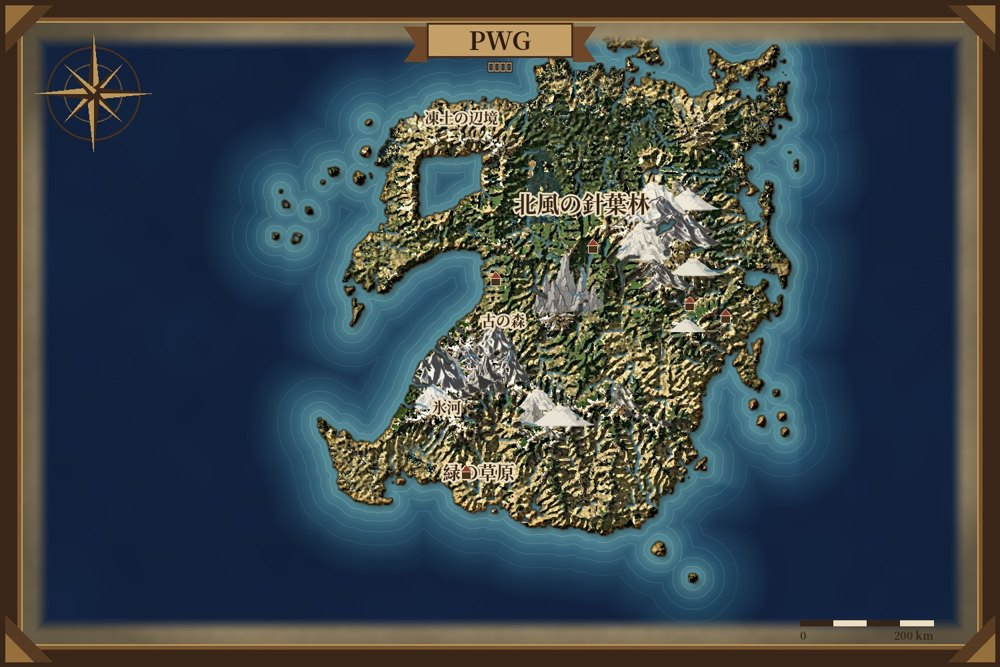
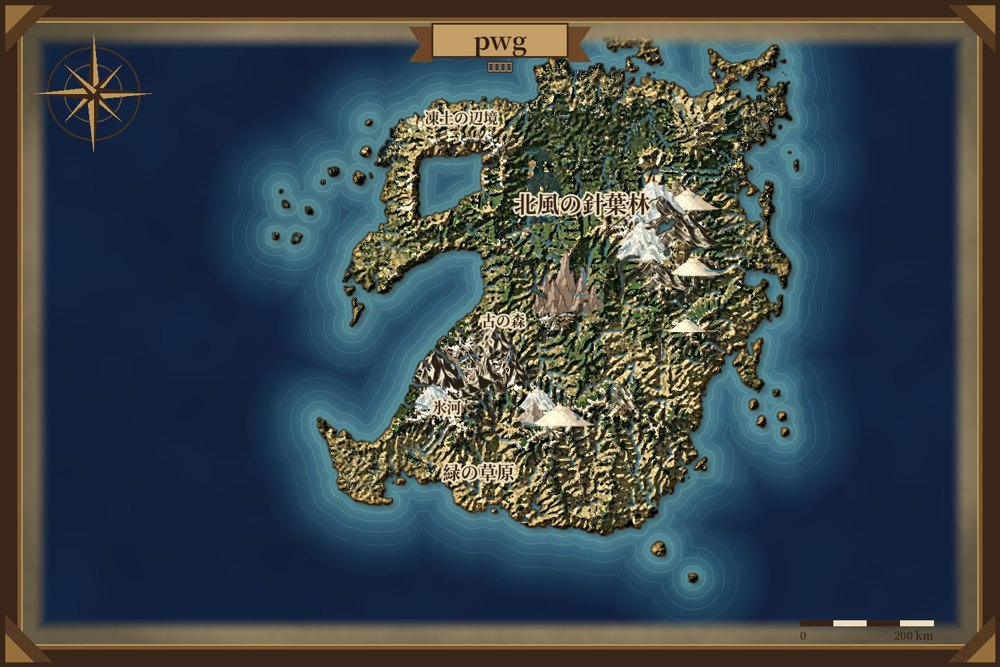
段階16修正: 部品の絵をそのまま貼る・家の記号を外す
Claude-Session: https://claude.ai/code/session_01NNF75WtqSrNc5QxPaYtfZJ

diff --git a/docs/apps/fantasy-war/mapstyle27.html b/docs/apps/fantasy-war/mapstyle27.html
@@ -1,18 +1,18 @@
 <!doctype html><html lang="ja"><head><meta charset="utf-8"><meta name="viewport" content="width=device-width,initial-scale=1"><title>段階16 部品から山を作る</title>
 <style>body{font-family:sans-serif;background:#f4ecd8;color:#2b2418;margin:0;padding:16px;line-height:1.7}h1{font-size:1.3em}img{max-width:100%;border-radius:6px}table{border-collapse:collapse;font-size:.85em}td,th{border:1px solid #b9a98a;padding:4px 8px}</style></head><body>
 <h1>段階16: 部品から山を作る(試作)</h1>
-<p><b>概要</b>: ユーザー案の5工程のうち、①部品②地形の点数との近さで選ぶ③地形から色を決める、④足もとをなじませる、までを実際の地図3枚に当てました(手調整なし)。部品の絵は点数表のとおり、場所の地形の点数(高さ・険しさ・寒さ・乾燥・湿潤・火山性・浸食台地・なだらか)と向きが近いものが選ばれて置かれます。</p>
+<p><b>概要(修正版)</b>: ユーザー案の5工程のうち、①部品②地形の点数との近さで選ぶ③地形から色を決める、④足もとをなじませる、までを実際の地図3枚に当てました(手調整なし)。部品の絵は点数表のとおり、場所の地形の点数(高さ・険しさ・寒さ・乾燥・湿潤・火山性・浸食台地・なだらか)と向きが近いものが選ばれて置かれます。</p>
 <h2>結果(3つの世界)</h2>
 <h3>Azgaar</h3><img src="mapstyle/gv/m27_az.jpg"><img src="mapstyle/gv/m27_az_crop.jpg">
 <h3>PWG</h3><img src="mapstyle/gv/m27_pwg.jpg"><img src="mapstyle/gv/m27_pwg_crop.jpg">
 <h3>簡易生成</h3><img src="mapstyle/gv/m27_simple.jpg">
 <h2>処理の時間とメモリ(実測)</h2>
 <table><tr><th></th><th>全体の秒</th><th>最大メモリ</th><th>置いた部品数</th></tr><tr><td>Azgaar</td><td>10.9</td><td>約600MB</td><td>99</td></tr><tr><td>PWG</td><td>13.4</td><td>約600MB</td><td>33</td></tr><tr><td>簡易生成</td><td>12.6</td><td>約600MB</td><td>19</td></tr></table>
-<h2>目視の評価</h2>
-<ul><li>良い点: 山の外形が地形で変わった。高く険しい所は尖峰や大きな群れ、低い所は丘になる。線は元の絵のもので、前の自作より手描きらしい。</li>
-<li>悪い点1: 色が灰色に寄り、特にAzgaarは冷たい青灰色で、下の砂色の地面から浮く。「寒さ」の点が広く効きすぎて雪色が強い(PWGの針葉林も白い)。</li>
-<li>悪い点2: 丸い岩山や岩のごろごろが多く選ばれ、山脈の連なり感が弱い。山脈の「稜線で区切る」処理(⑤手前の地形を前に置く)が未実装のため、山が地面の上に置かれた切り絵に見える。</li>
-<li>悪い点3: 山の数が少ない世界(簡易生成)はほぼ山が無い。</li></ul>
+<h2>ユーザーの指摘と修正(11-19 18:42)</h2>
+<p>「ちゃんと絵を置いてない」「変な家がある」。<b>原因</b>: ①最初の版は部品の絵を灰色の明暗に変えて色を塗り直したため、元の線と色が潰れて絵として置けていなかった。②家の記号は、山とは別に前の段階から入っていた都市の仮の印(川の近くに5個、四角に赤い屋根の簡単な絵)で、位置も意味も無いまま置かれていた。<b>修正</b>: 部品の絵(線・色)をそのまま貼り、地面の色味を弱く掛けるだけにした。家の記号はこの試作では外した。</p>
+<h2>目視の評価(修正後)</h2>
+<ul><li>良くなった点: 元の線画の線と明暗が見える。外形が地形で変わる。家の記号が消えた。</li>
+<li>まだ悪い点: 丸い岩山・岩のごろごろ・台地が多く選ばれ、山の連なり感が弱い。台地(柱状の塊)が地面から浮いて見える所がある。色は部品の紙色が残り、地面と色が合わない所がある。手前の地形を前に置く処理(⑤)が未実装。山の少ない世界(簡易生成)はほぼ山が無い。</li></ul>
 <h2>限界・未確認</h2>
 <ul><li>各1枚・目視のみ。点数は私の推論の案で、ユーザー確認前。</li>
 <li>火山性・浸食台地は乱数の場から仮の割合(4%・8%)で当てており、地球の分布の率は未調査。</li>

diff --git a/docs/apps/fantasy-war/mapstyle/tools/pipeline/gv/mtn16.py b/docs/apps/fantasy-war/mapstyle/tools/pipeline/gv/mtn16.py
@@ -27,7 +27,7 @@ def _load():
         ys, xs = np.nonzero(a > 0.3)
         if len(ys) < 50: continue
         y0, y1, x0, x1 = ys.min(), ys.max() + 1, xs.min(), xs.max() + 1
-        P.append(dict(id=r['id'], cat=r['cat'], g=np.array(r['group'], np.float32), t=t[y0:y1, x0:x1], a=a[y0:y1, x0:x1]))
+        P.append(dict(id=r['id'], cat=r['cat'], g=np.array(r['group'], np.float32), t=rgb[y0:y1, x0:x1], a=a[y0:y1, x0:x1]))
     return P
 
 def _cos(u, V):
@@ -96,23 +96,18 @@ def paint(img, Hh, land, bio, seed=1, scale=1.0, dens=1.0, hi=60.0, min_region=7
         w /= w.sum(); p = P[top[rs.choice(len(top), p=w)]]
         used[p['id']] = used.get(p['id'], 0) + 1
         t, a = p['t'], p['a']
-        hh, ww = t.shape
+        hh, ww = t.shape[:2]
         sc = wd / ww
         sc = min(sc, 150.0 / hh) if hh > 0 else sc
         nw, nh = max(8, int(ww * sc)), max(6, int(hh * sc))
         if nw < 10 or nh < 6: continue
         ts = cv2.resize(t, (nw, nh), interpolation=cv2.INTER_AREA); as_ = cv2.resize(a, (nw, nh), interpolation=cv2.INTER_AREA)
-        # ---- ③色: 下の地面から岩の色を決め、寒い・高い所は雪色
+        # ---- ③色: 部品の絵(線と色)はそのまま使い、下の地面の色味を弱く掛けるだけにする
         x0, y0 = int(bx - nw / 2), int(by - nh)
         xi, yi = int(min(max(bx, 0), W0 - 1)), int(min(max(by, 0), H0 - 1))
         g = ground[yi, xi]
-        rock = 0.5 * g + 0.5 * np.array([150, 134, 112], np.float32)
-        snowy = float(np.clip(v[2] * 1.1 + max(0, v[0] - 0.75) * 1.2, 0, 1))
-        light = np.clip(rock * 1.28 + 14, 0, 255); dark = rock * 0.34
-        light = light * (1 - snowy) + np.array([246, 242, 232], np.float32) * snowy
-        dark = dark * (1 - 0.5 * snowy) + np.array([92, 92, 104], np.float32) * 0.5 * snowy
-        tt = np.clip((ts - 0.12) / 0.88, 0, 1)[..., None] ** 0.9
-        col = dark[None, None, :] * (1 - tt) + light[None, None, :] * tt
+        tintv = 0.78 + 0.22 * (g / (g.mean() + 1e-6)); tintv = np.clip(tintv, 0.8, 1.12)
+        col = np.clip(ts * tintv[None, None, :], 0, 255)
         # ④足もとのぼかし(地面になじませる)
         fade = np.ones(nh, np.float32); k = max(2, int(nh * 0.14)); fade[-k:] = np.linspace(1, 0.15, k)
         al = (as_ * fade[:, None])[..., None]

diff --git a/docs/apps/fantasy-war/mapstyle/tools/pipeline/gv/grun10.py b/docs/apps/fantasy-war/mapstyle/tools/pipeline/gv/grun10.py
@@ -47,7 +47,8 @@ for s,nm,px,py in cand[:9]:
 # cities: river-adjacent sample points
 ys,xs=np.where((riv>0.5))
 rs=np.random.RandomState(my)
-for k in rs.choice(len(ys),min(5,len(ys)),replace=False) if len(ys) else []:
+import os as _o
+for k in rs.choice(len(ys),min(5,len(ys)),replace=False) if (len(ys) and _o.environ.get('FM_MTN')!='parts') else []:
     X,Y=xs[k]+ox,ys[k]+oy
     d.rectangle([X-7,Y-7,X+7,Y+4],fill=(70,48,30),outline=(236,222,190)); d.polygon([(X-9,Y-7),(X,Y-17),(X+9,Y-7)],fill=(150,60,44),outline=(236,222,190))
 import os; pil.save(os.environ['FM_OUT'].rstrip('/')+f'/final.jpg',quality=93)

diff --git a/docs/apps/sekai-hex/design/STATE.md b/docs/apps/sekai-hex/design/STATE.md
@@ -93,7 +93,7 @@
 - 【試作 11-19 部品4】高解像度線画その2(幅1120)から27個を追加(崖の塊・段のある台地・川のある峡谷・長い連なり・大きな群れ)。部品は計133個。限界: 峡谷は5つが1枚につながり川の色が消えた、柱などの連結あり、目視のみ。ページ: mapstyle25.html。
 - 【試作 11-19 部品5】砂漠の見本シート(線画・幅506)から45個を切り出し(砂丘・オアシス・サボテン・岩・台地・峡谷・らくだ隊・天幕など。山以外の飾りを含む)。砂の紋様は断片になった。部品は計178個。目視のみ。ページ: mapstyle25.html。
 - 【試作 11-19 点数表】部品177個に、地形の8軸(高さ・険しさ・寒さ・乾燥・湿潤・火山性・浸食台地・なだらか)の点数を私の推論で付けた案(群れの点数と頂点の点数。種類19区分ごとの基準)。試しに4つの地形でコサイン類似度の上位部品を表示。限界: 私の見立て・部品ごとの個別差なし・火山性と浸食台地は世界データに無い・目視。ページ: mapstyle26.html。データ: mapstyle/tools/parts_scores.json。次: ユーザーが点数を確認・修正。
-- 【試作 11-19 段階16】ユーザー「点数表はそのままでいこう」。部品を地形の点数との向きの近さで選び、地形から色を作って置く方式(mtn16.py、run_pipeline --mtn parts)を3つの世界で実行(各約11〜13秒・約600MB・手調整なし)。印象: 外形が地形で変わり手描きらしい。悪い: 色が灰色寄りで地面から浮く(寒さの効きすぎ)、丸い岩山が多く連なり感が弱い、山が少ない世界はほぼ無し。未実装: ⑤手前の地形を前に置く・形の変更。火山性4%・台地8%は仮の割合。各1枚・目視。ページ: mapstyle27.html。次: 寒さの効きを弱め、連なりの置き方を直す。
+- 【試作 11-19 段階16】ユーザー「点数表はそのままでいこう」。部品を地形の点数との向きの近さで選び、地形から色を作って置く方式(mtn16.py、run_pipeline --mtn parts)を3つの世界で実行(各約11〜13秒・約600MB・手調整なし)。【ユーザー指摘】絵を置けていない・変な家がある→原因は部品を灰色の明暗に塗り直して線と色を潰したこと、家は都市の仮の記号(今回は外した)。修正版は部品の絵をそのまま貼る。印象(修正後): 線と明暗が見え外形が地形で変わる。悪い: 丸い岩山・台地が多く連なり感が弱い、台地が浮く所あり、紙色が地面と合わない所あり、丸い岩山が多く連なり感が弱い、山が少ない世界はほぼ無し。未実装: ⑤手前の地形を前に置く・形の変更。火山性4%・台地8%は仮の割合。各1枚・目視。ページ: mapstyle27.html。次: 寒さの効きを弱め、連なりの置き方を直す。
 - 【未決】ランドマークの表現(種類・数・選び方・絵か立体か)。世界の層の見せ方=分かりやすさ+芸術性の融合(11-16)。
 
 ---
